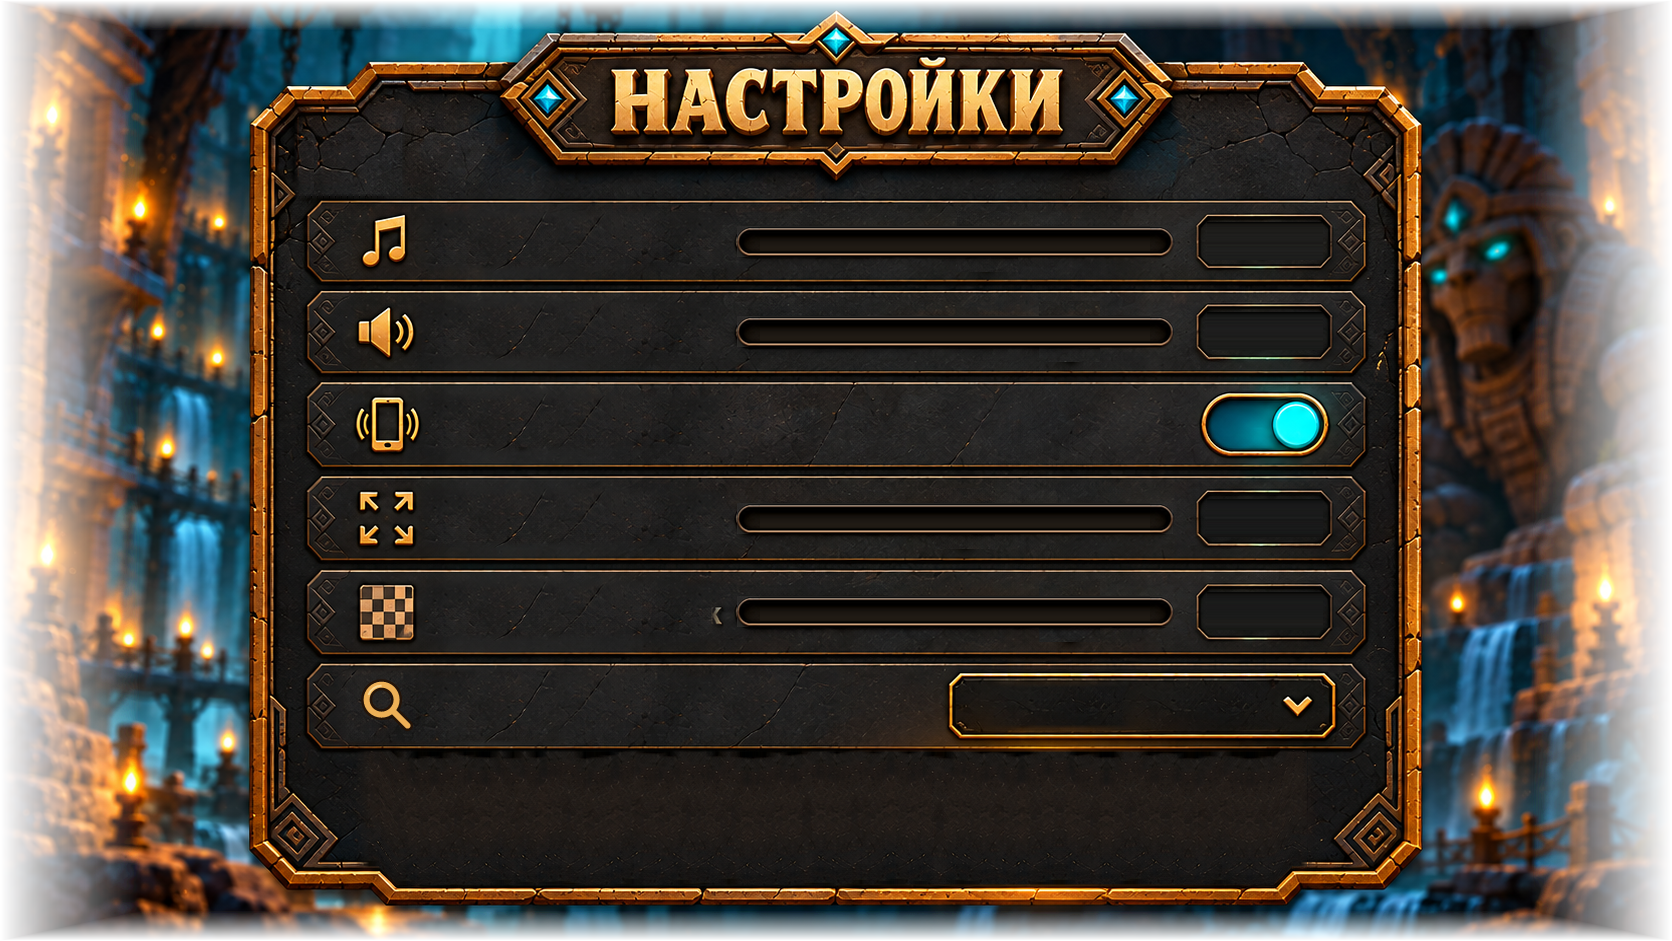
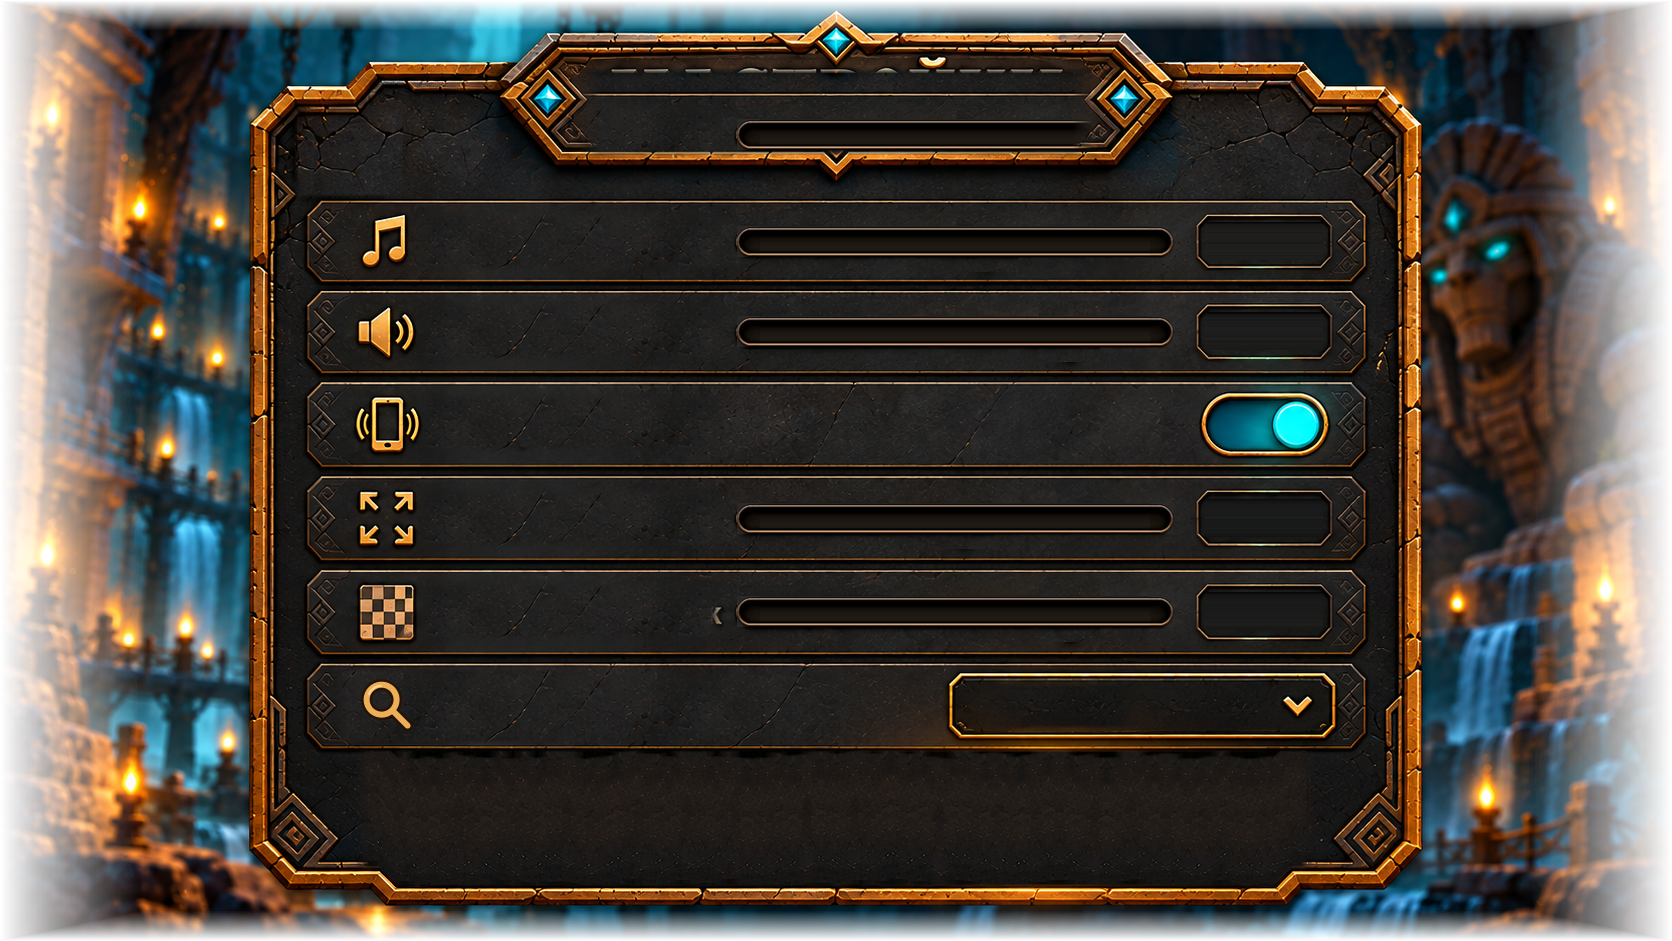
upd

Changed region(s): [[0.3421, 0.0616, 0.6531, 0.1849]]

diff --git a/Assets/Scripts/Presentation/ContextualHintOverlay.cs b/Assets/Scripts/Presentation/ContextualHintOverlay.cs
@@ -19,10 +19,13 @@ namespace DungeonGuardians.Presentation
         private SpriteRenderer digRendererRight;
         private SpriteRenderer digHaloLeft;
         private SpriteRenderer digHaloRight;
+        private TextMesh digTextLeft;
+        private TextMesh digTextRight;
 
         private GameObject exitArrow;
         private SpriteRenderer exitArrowRenderer;
         private SpriteRenderer exitGlowRenderer;
+        private TextMesh exitText;
 
         private LevelDefinition currentLevel;
         private int currentLevelIndex;
@@ -62,6 +65,18 @@ namespace DungeonGuardians.Presentation
             digRendererLeft.color = new Color(1f, 1f, 1f, 0.65f);
             digRendererLeft.sortingOrder = 20;
 
+            var textLeftObj = new GameObject("Label");
+            textLeftObj.transform.SetParent(digHintLeft.transform, false);
+            textLeftObj.transform.localPosition = new Vector3(0f, 0.5f, 0f);
+            digTextLeft = textLeftObj.AddComponent<TextMesh>();
+            digTextLeft.font = MenuStyle.Font;
+            digTextLeft.fontSize = 28;
+            digTextLeft.characterSize = 0.055f;
+            digTextLeft.alignment = TextAlignment.Center;
+            digTextLeft.anchor = TextAnchor.MiddleCenter;
+            digTextLeft.color = new Color(1f, 0.94f, 0.75f, 0.85f);
+            textLeftObj.GetComponent<MeshRenderer>().sortingOrder = 22;
+
             digHintLeft.transform.localScale = Vector3.one * 0.65f;
             digHintLeft.SetActive(false);
 
@@ -83,6 +98,18 @@ namespace DungeonGuardians.Presentation
             digRendererRight.sprite = digRightSprite;
             digRendererRight.color = new Color(1f, 1f, 1f, 0.65f);
             digRendererRight.sortingOrder = 20;
+
+            var textRightObj = new GameObject("Label");
+            textRightObj.transform.SetParent(digHintRight.transform, false);
+            textRightObj.transform.localPosition = new Vector3(0f, 0.5f, 0f);
+            digTextRight = textRightObj.AddComponent<TextMesh>();
+            digTextRight.font = MenuStyle.Font;
+            digTextRight.fontSize = 28;
+            digTextRight.characterSize = 0.055f;
+            digTextRight.alignment = TextAlignment.Center;
+            digTextRight.anchor = TextAnchor.MiddleCenter;
+            digTextRight.color = new Color(1f, 0.94f, 0.75f, 0.85f);
+            textRightObj.GetComponent<MeshRenderer>().sortingOrder = 22;
 
             digHintRight.transform.localScale = Vector3.one * 0.65f;
             digHintRight.SetActive(false);
@@ -107,8 +134,35 @@ namespace DungeonGuardians.Presentation
             exitArrowRenderer.sortingOrder = 20;
             arrowIconObj.transform.localScale = new Vector3(0.6f, 0.9f, 1f);
 
+            var exitTextObj = new GameObject("Label");
+            exitTextObj.transform.SetParent(exitArrow.transform, false);
+            exitTextObj.transform.localPosition = new Vector3(0f, 0.55f, 0f);
+            exitText = exitTextObj.AddComponent<TextMesh>();
+            exitText.font = MenuStyle.Font;
+            exitText.fontSize = 28;
+            exitText.characterSize = 0.055f;
+            exitText.alignment = TextAlignment.Center;
+            exitText.anchor = TextAnchor.MiddleCenter;
+            exitText.color = new Color(1f, 0.94f, 0.75f, 0.85f);
+            exitTextObj.GetComponent<MeshRenderer>().sortingOrder = 22;
+
             exitArrow.transform.localScale = Vector3.one * 0.85f;
             exitArrow.SetActive(false);
+
+            RefreshLocalizedText();
+            Localization.LanguageChanged += RefreshLocalizedText;
+        }
+
+        private void OnDestroy()
+        {
+            Localization.LanguageChanged -= RefreshLocalizedText;
+        }
+
+        private void RefreshLocalizedText()
+        {
+            if (digTextLeft != null) digTextLeft.text = Localization.T("hint_dig");
+            if (digTextRight != null) digTextRight.text = Localization.T("hint_dig");
+            if (exitText != null) exitText.text = Localization.T("hint_exit");
         }
 
         private static Sprite fallbackPickaxeLeft;
@@ -184,6 +238,7 @@ namespace DungeonGuardians.Presentation
             currentLevel = level;
             hasDugOnThisLevel = false;
 
+            RefreshLocalizedText();
             if (digHintLeft != null) digHintLeft.SetActive(false);
             if (digHintRight != null) digHintRight.SetActive(false);
             if (exitArrow != null) exitArrow.SetActive(false);

diff --git a/Assets/Scripts/Presentation/SettingsScreen.cs b/Assets/Scripts/Presentation/SettingsScreen.cs
@@ -51,6 +51,7 @@ namespace DungeonGuardians.Presentation
         private Sprite vibrationOff;
         private Button cameraStyleButton;
         private Text cameraStyleText;
+        private Text headerText;
         private Text musicLabelText;
         private Text soundLabelText;
         private Text vibrationLabelText;
@@ -115,6 +116,9 @@ namespace DungeonGuardians.Presentation
             Image backing = MenuStyle.CreatePicture(transform, "Backgrounds/settings_blur", AspectRatioFitter.AspectMode.EnvelopeParent);
             backing.raycastTarget = true;
             picture = MenuStyle.CreatePicture(transform, "Backgrounds/settings", AspectRatioFitter.AspectMode.FitInParent).transform;
+
+            // Top Header: НАСТРОЙКИ / SETTINGS
+            headerText = AddHeaderTitle();
 
             // Interactive controls over their exact painted slots on the stone frame:
             // Row 1: Музыка / Music
@@ -300,6 +304,29 @@ namespace DungeonGuardians.Presentation
             return (buttonImage, text);
         }
 
+        private Text AddHeaderTitle()
+        {
+            var title = new GameObject("HeaderTitle").AddComponent<Text>();
+            title.transform.SetParent(picture, false);
+            title.font = MenuStyle.Font;
+            title.fontStyle = FontStyle.Bold;
+            title.alignment = TextAnchor.MiddleCenter;
+            title.color = new Color(1f, 0.94f, 0.74f);
+            title.text = Localization.T("settings_header");
+            title.raycastTarget = false;
+            title.resizeTextForBestFit = true;
+            title.resizeTextMinSize = 24;
+            title.resizeTextMaxSize = 62;
+
+            var outline = title.gameObject.AddComponent<Outline>();
+            outline.effectColor = new Color(0.14f, 0.07f, 0.02f, 0.95f);
+            outline.effectDistance = new Vector2(3f, -3f);
+
+            // Centered plaque area between the two crystals
+            MenuStyle.PlaceOnPicture(title.rectTransform, new Rect(570f, 65f, 532f, 92f));
+            return title;
+        }
+
         private Text AddRowLabel(float rowY, string key)
         {
             var label = new GameObject("Label_" + key).AddComponent<Text>();
@@ -330,6 +357,7 @@ namespace DungeonGuardians.Presentation
             SetLangButtonState(langRuBg, langRuText, selected == AppLanguage.Russian, Localization.T("settings_lang_ru"), activeSprite, inactiveSprite);
             SetLangButtonState(langEnBg, langEnText, selected == AppLanguage.English, Localization.T("settings_lang_en"), activeSprite, inactiveSprite);
 
+            if (headerText != null) headerText.text = Localization.T("settings_header");
             if (musicLabelText != null) musicLabelText.text = Localization.T("settings_music");
             if (soundLabelText != null) soundLabelText.text = Localization.T("settings_sound");
             if (vibrationLabelText != null) vibrationLabelText.text = Localization.T("settings_vibration");

diff --git a/tools/clean_settings_header.py b/tools/clean_settings_header.py
@@ -1,0 +1,34 @@
+from PIL import Image, ImageDraw, ImageFilter
+
+path = "Assets/Resources/Backgrounds/settings.png"
+img = Image.open(path).convert("RGBA")
+
+# Header plaque text area:
+# Center is x = 836 (half of 1672)
+# Text "НАСТРОЙКИ" is roughly from x = 600 to x = 1072, y = 68 to y = 152.
+# Left crystal is at x ~ 515..575. Right crystal is at x ~ 1097..1157.
+# Top ornate border is at y ~ 60..68. Bottom border is at y ~ 154..165.
+
+# Let's sample the clean dark carved stone plate background from below or sides of the header,
+# or create a seamless textured fill matching the dark cracked stone behind the letters.
+# Let's crop the header area to inspect
+header_box = (580, 68, 1092, 155)
+w = header_box[2] - header_box[0]
+h = header_box[3] - header_box[1]
+
+# We can sample the plain dark stone texture from y=170..210 (between header and music row) or create a smooth patch
+stone_sample = img.crop((header_box[0], 175, header_box[2], 175 + h))
+
+# Let's create a feathered mask that blends softly with the stone background inside the frame
+mask = Image.new("L", (w, h), 0)
+feather_x = 20
+feather_y = 6
+for x in range(w):
+    for y in range(h):
+        kx = min(1.0, (x + 1) / feather_x, (w - x) / feather_x)
+        ky = min(1.0, (y + 1) / feather_y, (h - y) / feather_y)
+        mask.putpixel((x, y), int(255 * kx * ky))
+
+img.paste(stone_sample, header_box[:2], mask)
+img.save(path)
+print("Settings header cleanly patched and cleared!")

diff --git a/Assets/Scripts/Core/Localization.cs b/Assets/Scripts/Core/Localization.cs
@@ -128,6 +128,7 @@ namespace DungeonGuardians.Core
             { "menu_exit", new[] { "ВЫХОД", "EXIT" } },
 
             // Settings
+            { "settings_header", new[] { "НАСТРОЙКИ", "SETTINGS" } },
             { "settings_music", new[] { "Музыка", "Music" } },
             { "settings_sound", new[] { "Звуки", "Sound FX" } },
             { "settings_vibration", new[] { "Вибрация", "Vibration" } },
@@ -169,6 +170,9 @@ namespace DungeonGuardians.Core
 
             // In-Game HUD & Victory
             { "hud_level", new[] { "Уровень {0}", "Level {0}" } },
+            { "hud_pause", new[] { "ПАУЗА", "PAUSE" } },
+            { "hint_dig", new[] { "КОПАЙ", "DIG" } },
+            { "hint_exit", new[] { "ВЫХОД", "EXIT" } },
             { "hud_victory_title", new[] { "Уровень пройден", "Level Completed" } },
             { "hud_victory_subtitle", new[] { "«{0}» — печать снята", "«{0}» — seal broken" } },
             { "hud_all_won_title", new[] { "Все залы пройдены", "All Halls Conquered" } },

diff --git a/Assets/Scripts/Presentation/GameHud.cs b/Assets/Scripts/Presentation/GameHud.cs
@@ -143,9 +143,9 @@ namespace DungeonGuardians.Presentation
 
             if (paused)
             {
-                ShowMessage("PAUSE");
+                ShowMessage(Localization.T("hud_pause"));
             }
-            else if (messageLabel == "PAUSE")
+            else
             {
                 ShowMessage(string.Empty);
             }
